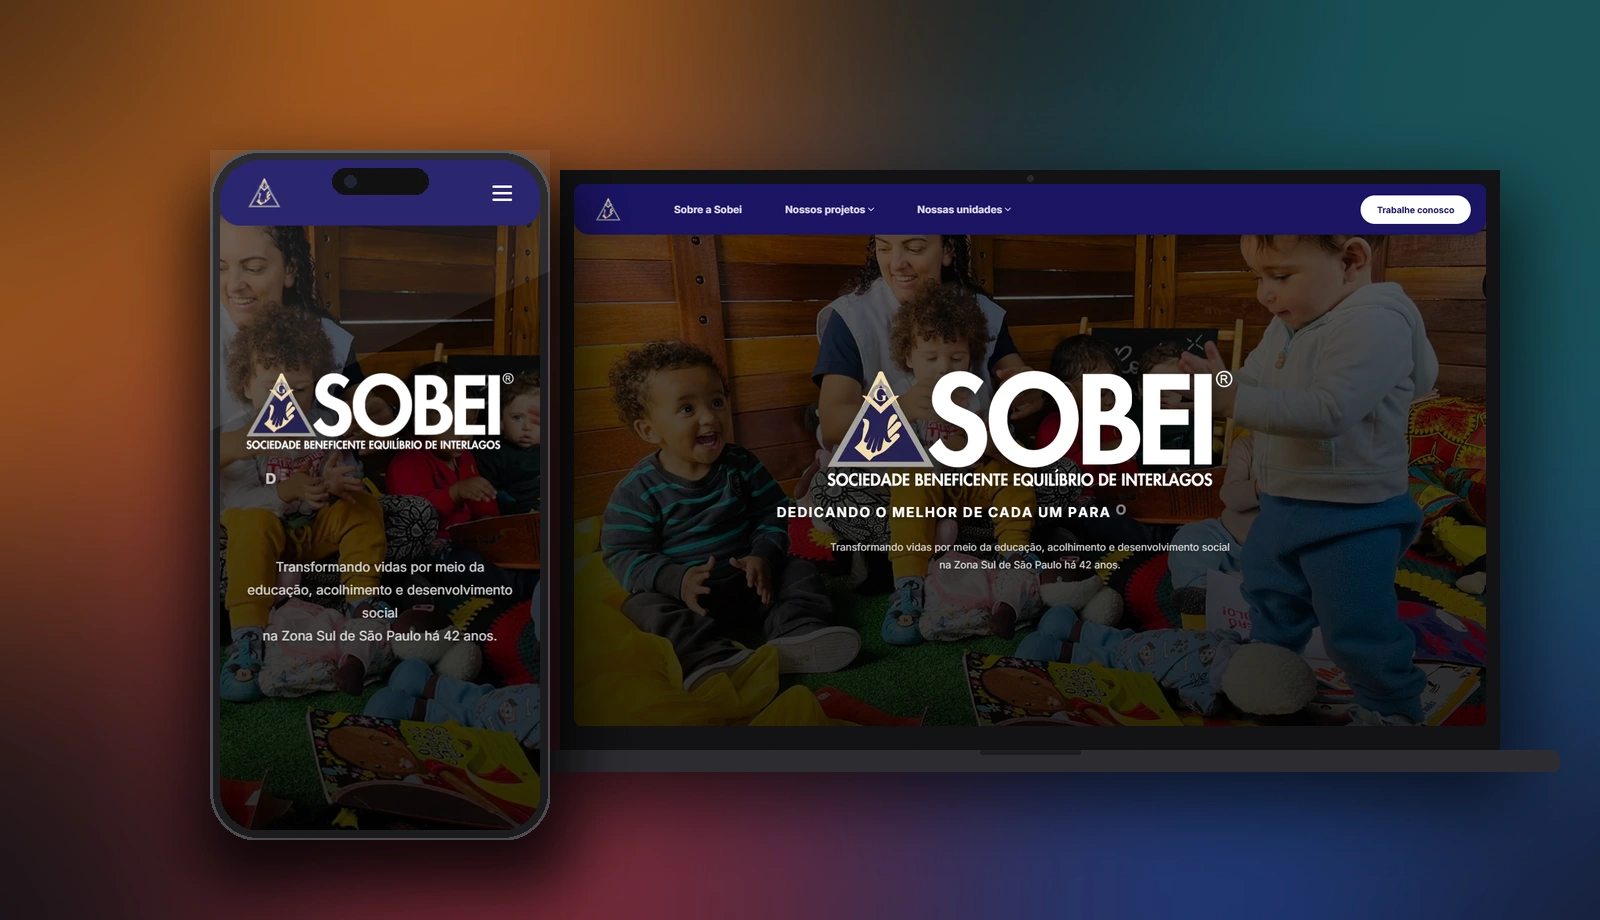
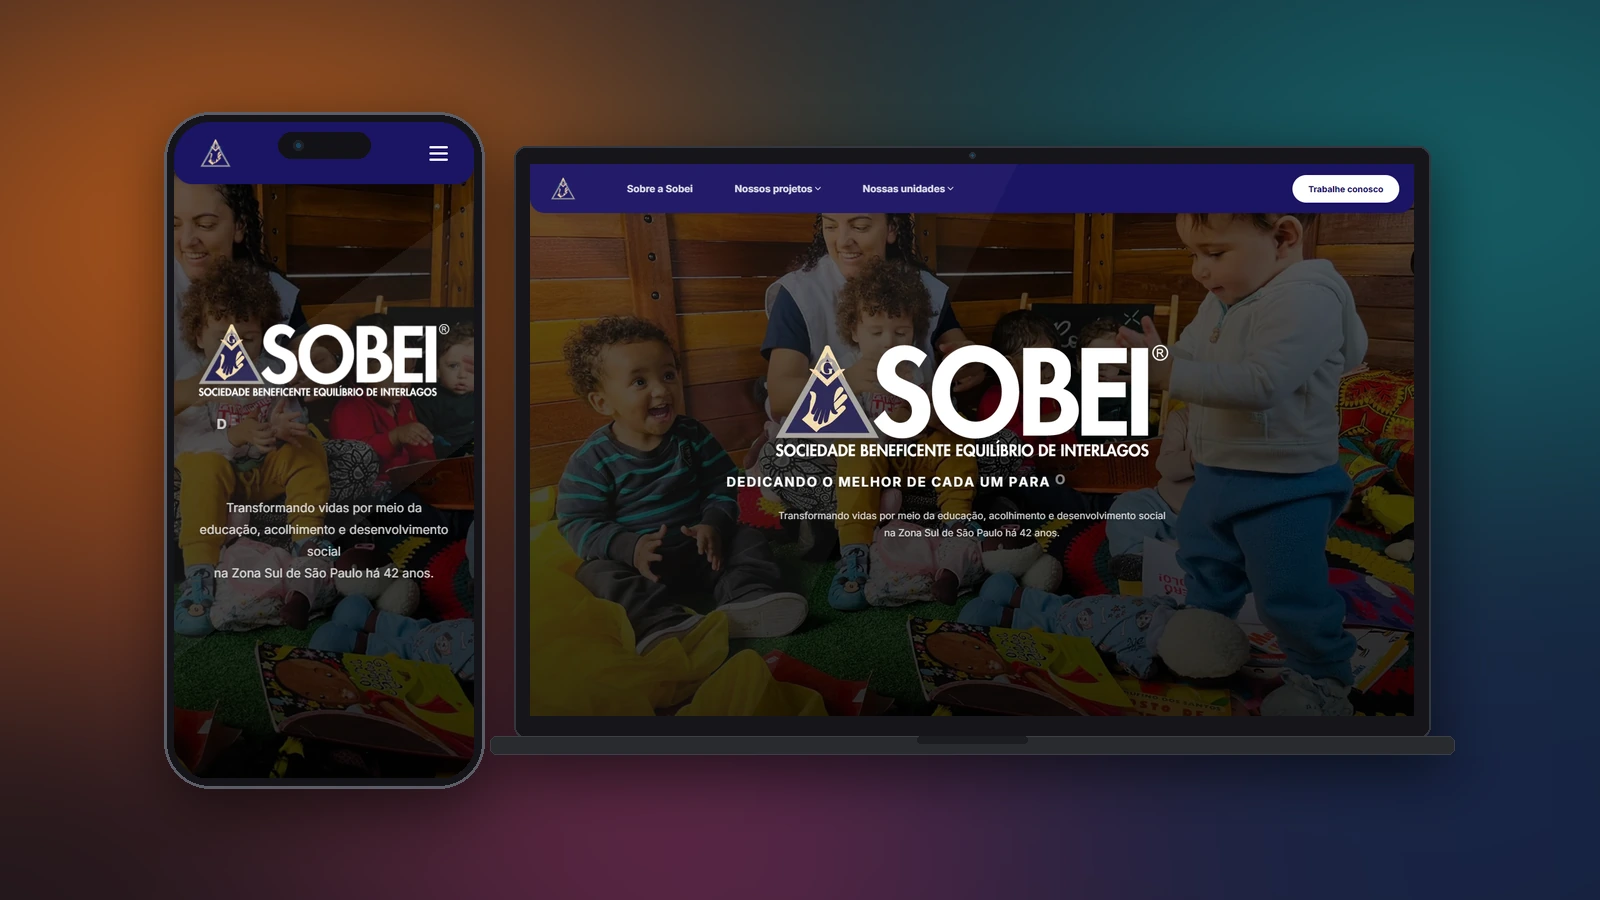
fix(sobei): centraliza dispositivos no card de showcase responsivo

diff --git a/src/app/projetos/sobei/page.tsx b/src/app/projetos/sobei/page.tsx
@@ -287,7 +287,7 @@ export default function SobeiCasePage() {
                   </p>
                 </div>
 
-                <div className="relative w-full rounded-2xl sm:rounded-3xl overflow-hidden border border-border/80 bg-neutral-950 shadow-2xl aspect-[16/10] sm:aspect-[16/9]">
+                <div className="relative w-full rounded-2xl sm:rounded-3xl overflow-hidden border border-border/80 bg-neutral-950 shadow-2xl aspect-[16/9]">
                   <Image
                     src="/projetos/sobei-responsive-showcase.webp"
                     alt="sobei.org.br — Portal institucional oficial em versões desktop e mobile"
